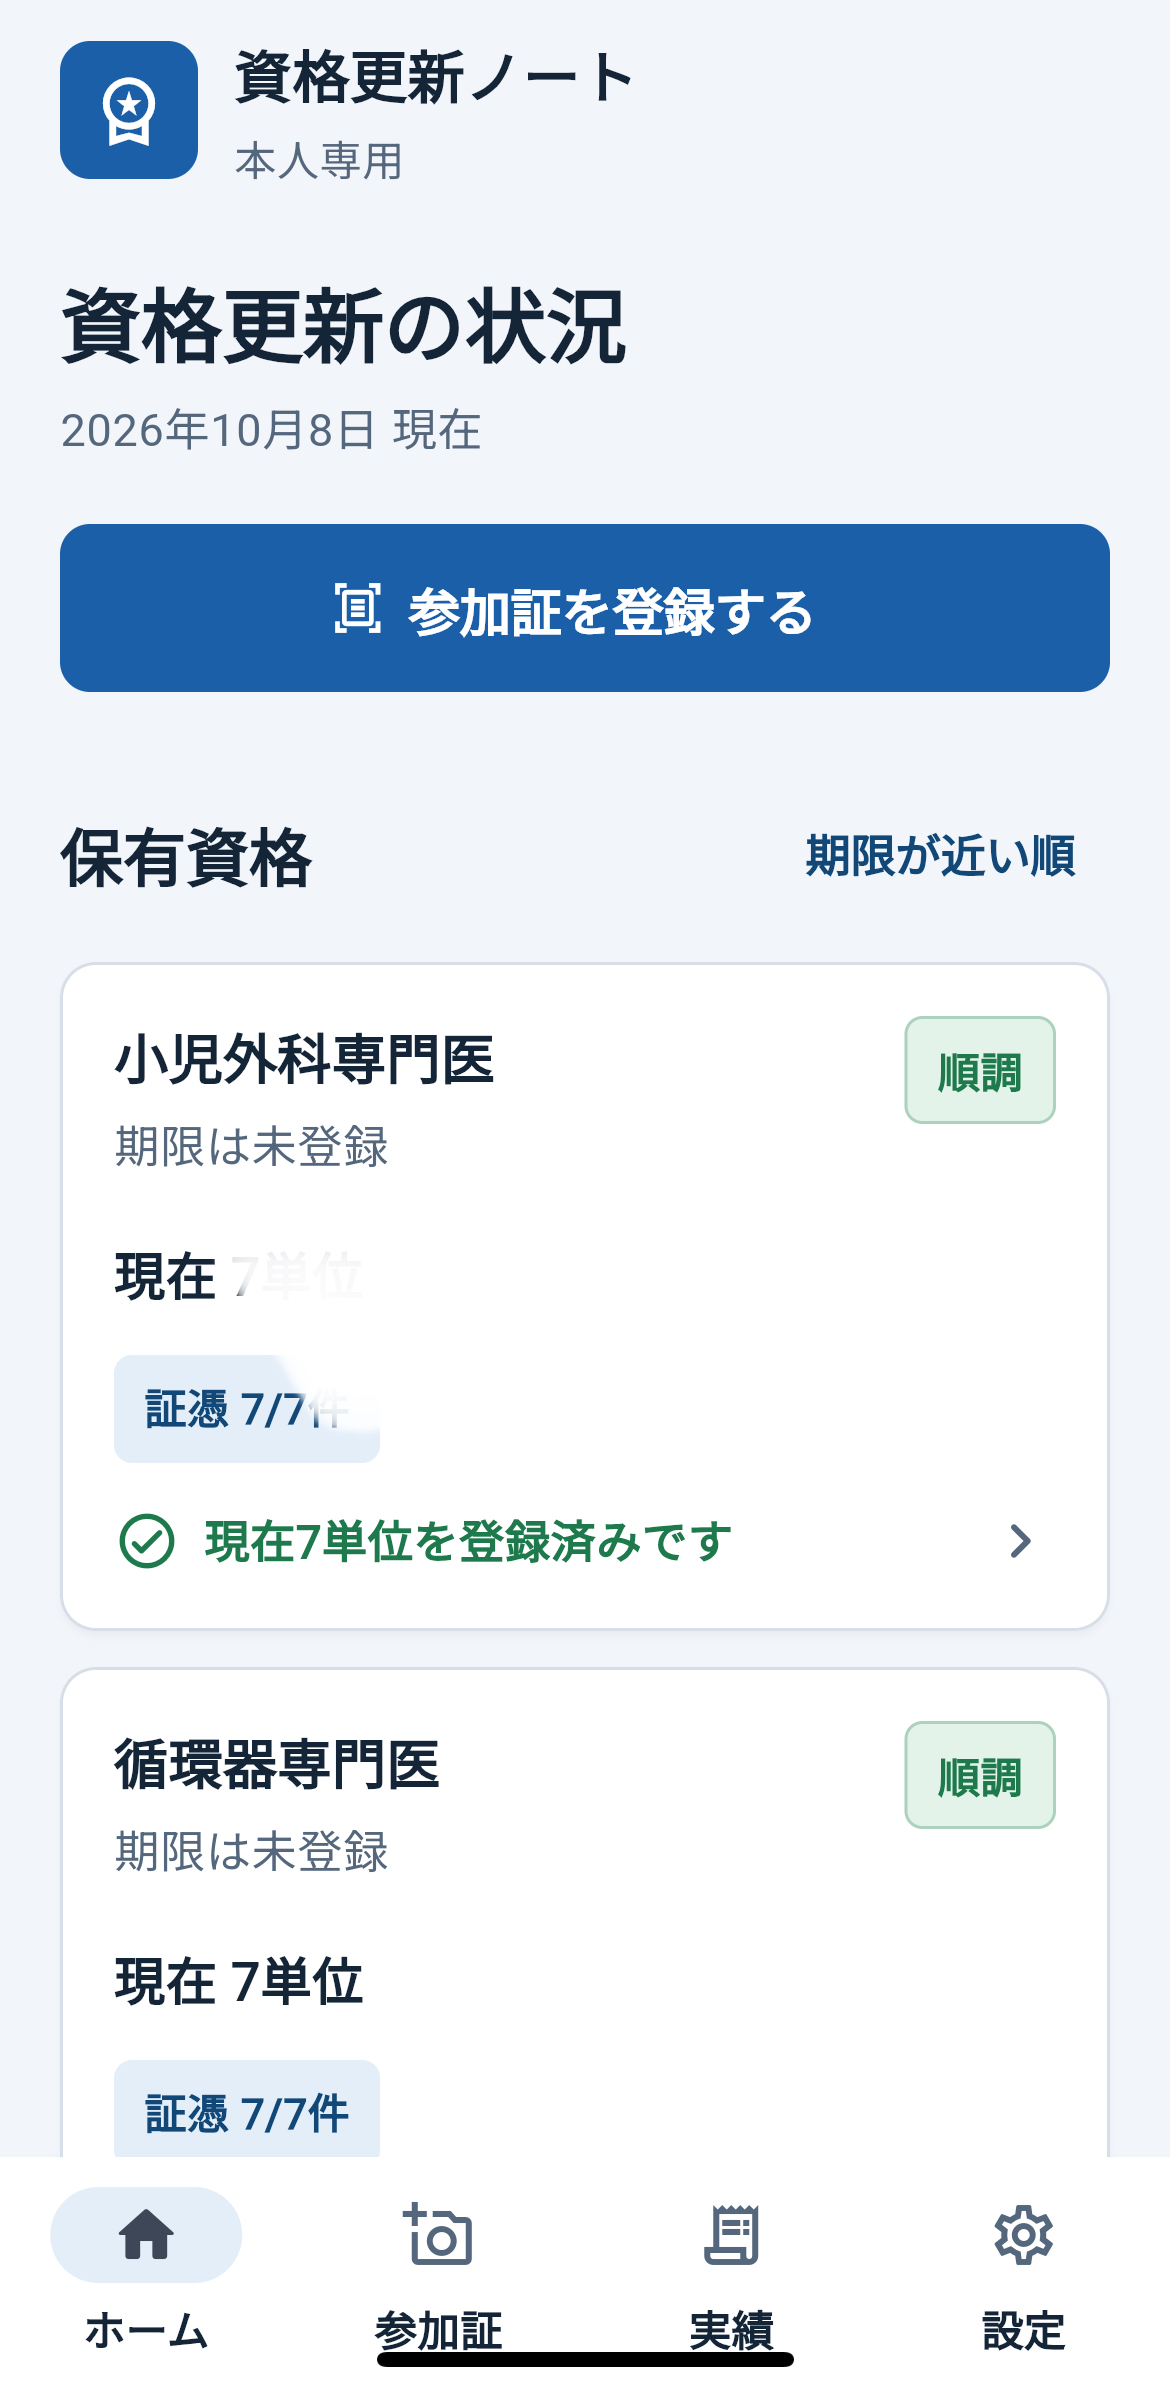
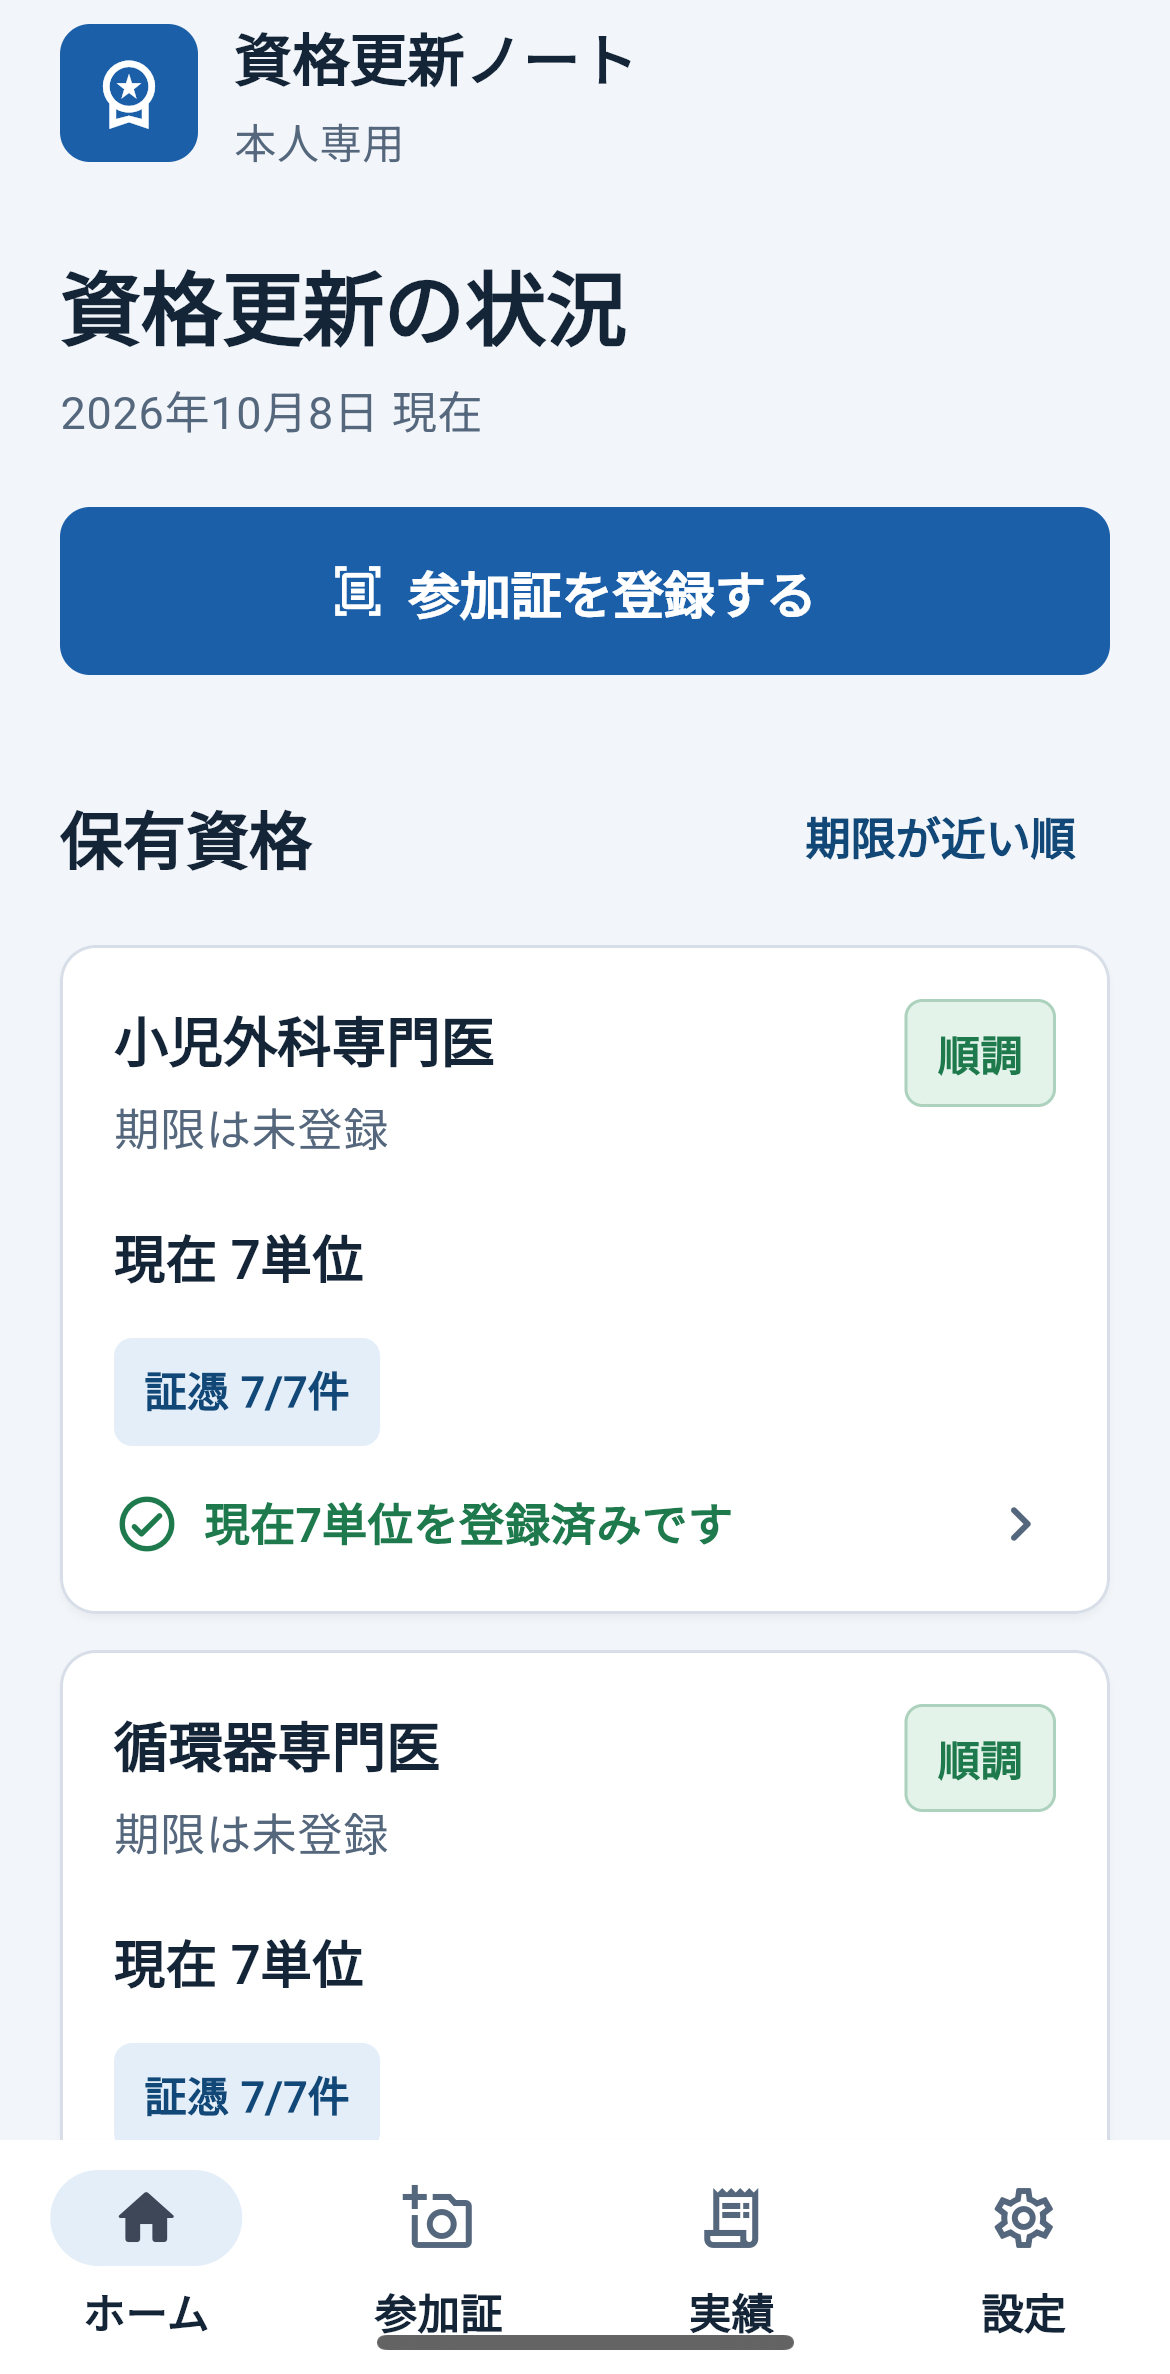
画像差し替え

diff --git a/about/index.html b/about/index.html
@@ -130,7 +130,7 @@
             <div class="work-detail-layout">
               <div class="work-detail-preview">
                 <a href="https://med-dad.vercel.app/" target="_blank" rel="noopener noreferrer" aria-label="資格更新ノートを新しいタブで開く">
-                  <img src="assets/med-dad.jpg" alt="資格更新ノートの画面。保有資格と取得単位、参加証の登録状況を一覧で表示。" width="1170" height="2391" />
+                  <img src="assets/med-dad.jpg" alt="資格更新ノートの画面。保有資格と取得単位、参加証の登録状況を一覧で表示。" width="1170" height="2374" />
                 </a>
               </div>
               <div class="work-detail-text">

diff --git a/books/index.html b/books/index.html
@@ -130,7 +130,7 @@
             <div class="work-detail-layout">
               <div class="work-detail-preview">
                 <a href="https://med-dad.vercel.app/" target="_blank" rel="noopener noreferrer" aria-label="資格更新ノートを新しいタブで開く">
-                  <img src="assets/med-dad.jpg" alt="資格更新ノートの画面。保有資格と取得単位、参加証の登録状況を一覧で表示。" width="1170" height="2391" />
+                  <img src="assets/med-dad.jpg" alt="資格更新ノートの画面。保有資格と取得単位、参加証の登録状況を一覧で表示。" width="1170" height="2374" />
                 </a>
               </div>
               <div class="work-detail-text">

diff --git a/contact/index.html b/contact/index.html
@@ -130,7 +130,7 @@
             <div class="work-detail-layout">
               <div class="work-detail-preview">
                 <a href="https://med-dad.vercel.app/" target="_blank" rel="noopener noreferrer" aria-label="資格更新ノートを新しいタブで開く">
-                  <img src="assets/med-dad.jpg" alt="資格更新ノートの画面。保有資格と取得単位、参加証の登録状況を一覧で表示。" width="1170" height="2391" />
+                  <img src="assets/med-dad.jpg" alt="資格更新ノートの画面。保有資格と取得単位、参加証の登録状況を一覧で表示。" width="1170" height="2374" />
                 </a>
               </div>
               <div class="work-detail-text">

diff --git a/index.html b/index.html
@@ -129,7 +129,7 @@
             <div class="work-detail-layout">
               <div class="work-detail-preview">
                 <a href="https://med-dad.vercel.app/" target="_blank" rel="noopener noreferrer" aria-label="資格更新ノートを新しいタブで開く">
-                  <img src="assets/med-dad.jpg" alt="資格更新ノートの画面。保有資格と取得単位、参加証の登録状況を一覧で表示。" width="1170" height="2391" />
+                  <img src="assets/med-dad.jpg" alt="資格更新ノートの画面。保有資格と取得単位、参加証の登録状況を一覧で表示。" width="1170" height="2374" />
                 </a>
               </div>
               <div class="work-detail-text">

diff --git a/music/index.html b/music/index.html
@@ -130,7 +130,7 @@
             <div class="work-detail-layout">
               <div class="work-detail-preview">
                 <a href="https://med-dad.vercel.app/" target="_blank" rel="noopener noreferrer" aria-label="資格更新ノートを新しいタブで開く">
-                  <img src="assets/med-dad.jpg" alt="資格更新ノートの画面。保有資格と取得単位、参加証の登録状況を一覧で表示。" width="1170" height="2391" />
+                  <img src="assets/med-dad.jpg" alt="資格更新ノートの画面。保有資格と取得単位、参加証の登録状況を一覧で表示。" width="1170" height="2374" />
                 </a>
               </div>
               <div class="work-detail-text">

diff --git a/works/index.html b/works/index.html
@@ -130,7 +130,7 @@
             <div class="work-detail-layout">
               <div class="work-detail-preview">
                 <a href="https://med-dad.vercel.app/" target="_blank" rel="noopener noreferrer" aria-label="資格更新ノートを新しいタブで開く">
-                  <img src="assets/med-dad.jpg" alt="資格更新ノートの画面。保有資格と取得単位、参加証の登録状況を一覧で表示。" width="1170" height="2391" />
+                  <img src="assets/med-dad.jpg" alt="資格更新ノートの画面。保有資格と取得単位、参加証の登録状況を一覧で表示。" width="1170" height="2374" />
                 </a>
               </div>
               <div class="work-detail-text">

diff --git a/works/kashika/index.html b/works/kashika/index.html
@@ -130,7 +130,7 @@
             <div class="work-detail-layout">
               <div class="work-detail-preview">
                 <a href="https://med-dad.vercel.app/" target="_blank" rel="noopener noreferrer" aria-label="資格更新ノートを新しいタブで開く">
-                  <img src="assets/med-dad.jpg" alt="資格更新ノートの画面。保有資格と取得単位、参加証の登録状況を一覧で表示。" width="1170" height="2391" />
+                  <img src="assets/med-dad.jpg" alt="資格更新ノートの画面。保有資格と取得単位、参加証の登録状況を一覧で表示。" width="1170" height="2374" />
                 </a>
               </div>
               <div class="work-detail-text">

diff --git a/works/med-dad/index.html b/works/med-dad/index.html
@@ -130,7 +130,7 @@
             <div class="work-detail-layout">
               <div class="work-detail-preview">
                 <a href="https://med-dad.vercel.app/" target="_blank" rel="noopener noreferrer" aria-label="資格更新ノートを新しいタブで開く">
-                  <img src="assets/med-dad.jpg" alt="資格更新ノートの画面。保有資格と取得単位、参加証の登録状況を一覧で表示。" width="1170" height="2391" />
+                  <img src="assets/med-dad.jpg" alt="資格更新ノートの画面。保有資格と取得単位、参加証の登録状況を一覧で表示。" width="1170" height="2374" />
                 </a>
               </div>
               <div class="work-detail-text">

diff --git a/works/message-window-generator/index.html b/works/message-window-generator/index.html
@@ -130,7 +130,7 @@
             <div class="work-detail-layout">
               <div class="work-detail-preview">
                 <a href="https://med-dad.vercel.app/" target="_blank" rel="noopener noreferrer" aria-label="資格更新ノートを新しいタブで開く">
-                  <img src="assets/med-dad.jpg" alt="資格更新ノートの画面。保有資格と取得単位、参加証の登録状況を一覧で表示。" width="1170" height="2391" />
+                  <img src="assets/med-dad.jpg" alt="資格更新ノートの画面。保有資格と取得単位、参加証の登録状況を一覧で表示。" width="1170" height="2374" />
                 </a>
               </div>
               <div class="work-detail-text">

diff --git a/works/pocketreception/index.html b/works/pocketreception/index.html
@@ -130,7 +130,7 @@
             <div class="work-detail-layout">
               <div class="work-detail-preview">
                 <a href="https://med-dad.vercel.app/" target="_blank" rel="noopener noreferrer" aria-label="資格更新ノートを新しいタブで開く">
-                  <img src="assets/med-dad.jpg" alt="資格更新ノートの画面。保有資格と取得単位、参加証の登録状況を一覧で表示。" width="1170" height="2391" />
+                  <img src="assets/med-dad.jpg" alt="資格更新ノートの画面。保有資格と取得単位、参加証の登録状況を一覧で表示。" width="1170" height="2374" />
                 </a>
               </div>
               <div class="work-detail-text">

diff --git a/works/portfolio/index.html b/works/portfolio/index.html
@@ -130,7 +130,7 @@
             <div class="work-detail-layout">
               <div class="work-detail-preview">
                 <a href="https://med-dad.vercel.app/" target="_blank" rel="noopener noreferrer" aria-label="資格更新ノートを新しいタブで開く">
-                  <img src="assets/med-dad.jpg" alt="資格更新ノートの画面。保有資格と取得単位、参加証の登録状況を一覧で表示。" width="1170" height="2391" />
+                  <img src="assets/med-dad.jpg" alt="資格更新ノートの画面。保有資格と取得単位、参加証の登録状況を一覧で表示。" width="1170" height="2374" />
                 </a>
               </div>
               <div class="work-detail-text">
